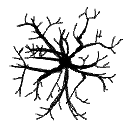
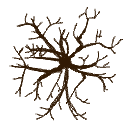
edited textures

diff --git a/main.py b/main.py
@@ -5,7 +5,7 @@ from pygame.locals import *
 from PIL import Image
 import pickle
 import numpy as np
-from math import pi, tau, sin, cos, tan, asin, acos, atan, ceil
+from math import pi, tau, sin, cos, tan, asin, acos, atan, ceil, floor
 import cProfile
 import random
 from quadtree import root_node
@@ -21,11 +21,11 @@ tile_size = 75
 
 pygame.display.set_mode(window_size, DOUBLEBUF|OPENGL)
 
-materials = ["Dirt16", "Water", "Planks16", "Mud16", "Cabbage16"]
+materials = ["Dirt16", "Water", "tiles16", "dirt16", "Cabbage16"]
 materials_img = []
-sprites = ["selection", "foxchar", "Grass", "TreeStump", "DeadTree", "LivingTree"]
+sprites = ["selection", "charb32", "Grass", "TreeStump", "DeadTree", "treeb128"]
 sprites_img = []
-solids = {"Water", "DeadTree", "LivingTree"}
+solids = {"Water", "treeb128", "tree128"}
 def load_textures():
     global materials_img
     global sprites_img
@@ -33,13 +33,18 @@ def load_textures():
     sprites_img = []
     for mat in materials:
         frame_list = []
-        file = Image.open("data/" + mat + ".jpg")
+        file = Image.open("data/" + mat + ".png")
         for i in range(file.height//file.width):
             frame_list.append(pygame.image.fromstring(file.crop(Rect(0,file.width*i,file.width,file.width*(i+1))).resize([128, 128], resample=Image.NEAREST).tobytes(), [128, 128], "RGB").convert_alpha())
         materials_img.append(frame_list)
     for spr in sprites:
         file = Image.open("data/" + spr + ".png")
         sprites_img.append(pygame.image.fromstring(file.resize([128, 128], resample=Image.NEAREST).tobytes(), [128, 128], "RGBA").convert_alpha())
+    for i in range(4):
+        file = Image.open("data/char32.png")
+        sprites_img.append(pygame.image.fromstring(file.resize([128, 128], resample=Image.NEAREST).rotate(90*i).tobytes(), [128, 128], "RGBA").convert_alpha())
+        file = Image.open("data/charb32.png")
+        sprites_img.append(pygame.image.fromstring(file.resize([128, 128], resample=Image.NEAREST).rotate(90*i).tobytes(), [128, 128], "RGBA").convert_alpha())
 load_textures()
 
 texpack = pygame.Surface((128*(len(materials)+len(sprites_img)), 128), flags=pygame.SRCALPHA).convert_alpha()
@@ -84,13 +89,13 @@ def get_mat(x, y):
         if (r < -.9):
             mat = 1
         elif (r < -.5):
-            mat = 4
+            mat = 0
         elif (r > 0.5):
-            mat = 4
+            mat = 0
         elif (abs(r) < 0.1):
             mat = 3
         else:
-            mat = 0
+            mat = 4
         map.cache_data(x, y, mat)
     return mat
 def decorate(x, y, mat):
@@ -158,6 +163,7 @@ def handle_keys():
 running=True
 frame = 0
 curtime = pygame.time.get_ticks()
+char_direction = 0
 
 def main():
     global frame
@@ -167,6 +173,7 @@ def main():
     global surf
     global Foreground_texture
     global screen
+    global char_direction
     frame += 1
     dt = pygame.time.get_ticks() - curtime
     curtime = pygame.time.get_ticks()
@@ -174,11 +181,23 @@ def main():
     handle_keys()
     if pygame.K_w in keydown_set:
         velocity[1] -= acceleration * dt
+        char_direction = 0
     if pygame.K_a in keydown_set:
+        char_direction = 2
+        if pygame.K_w in keydown_set:
+            char_direction = 3
         velocity[0] -= acceleration * dt
     if pygame.K_s in keydown_set:
+        char_direction = 4
+        if pygame.K_a in keydown_set:
+            char_direction = 5
         velocity[1] += acceleration * dt
     if pygame.K_d in keydown_set:
+        char_direction = 6
+        if pygame.K_w in keydown_set:
+            char_direction = 1
+        if pygame.K_s in keydown_set:
+            char_direction = 7
         velocity[0] += acceleration * dt
     if pygame.K_t in keydown_set:
         map.tree()
@@ -198,14 +217,14 @@ def main():
     velocity[0] -= velocity[0] / 10
     velocity[1] -= velocity[1] / 10
     screen_coords = [pos[0] * tile_size - window_size[0] // 2, pos[1] * tile_size - window_size[1] // 2]
-    mat = get_mat(ceil(pos[0] - 1), ceil(pos[1]))
-    spr = decorate(ceil(pos[0] - 1), ceil(pos[1]), mat)
+    mat = get_mat(ceil(pos[0] - 1), ceil(pos[1] - 1))
+    spr = decorate(ceil(pos[0] - 1), ceil(pos[1] - 1), mat)
     if (materials[mat] in solids or spr != None and sprites[spr] in solids):
         pos[1] += 1
         velocity = [0, 0]
     else:
-        mat2 = get_mat(ceil(pos[0] - 1 + velocity[0]), ceil(pos[1] + velocity[1]))
-        spr2 = decorate(ceil(pos[0] - 1 + velocity[0]), ceil(pos[1] + velocity[1]), mat2)
+        mat2 = get_mat(ceil(pos[0] - 1 + velocity[0]), ceil(pos[1] - 1 + velocity[1]))
+        spr2 = decorate(ceil(pos[0] - 1 + velocity[0]), ceil(pos[1] - 1 + velocity[1]), mat2)
         if (materials[mat2] in solids or spr2 != None and sprites[spr2] in solids):
             velocity = [0, 0]
         else:
@@ -235,7 +254,7 @@ def main():
                 draw_object(decor, tile_coords[0], tile_coords[1], 2, 2, screen_coords)
             if decor == 4 or decor == 5:
                 draw_object(3, tile_coords[0], tile_coords[1], 1, 1, screen_coords)
-    draw_sprite(1, window_size[0] / 2 - tile_size, window_size[1] / 2 - tile_size, 0.75, 2 * tile_size, 2 * tile_size)
+    draw_sprite(6+char_direction, window_size[0] / 2 - tile_size, window_size[1] / 2 - tile_size, 0.75, 2 * tile_size, 2 * tile_size)
     for y in range(7 + window_size[1] // tile_size):
         for x in range(7 + window_size[0] // tile_size):
             tile_coords = [ceil(screen_coords[0] / tile_size) + x - 4,
